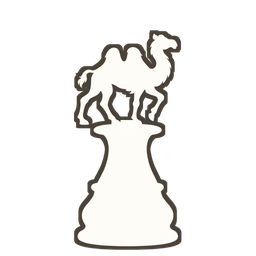
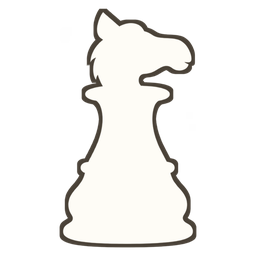
Timur's chess: hand-drawn pawns (war engine, elephant, giraffe, vizier, picket, camel), crowned king's pawn, plain pawn of pawns
Claude-Session: https://claude.ai/code/session_015r593RCYMwXPxiHzKrqQYy

Changed region(s): [[0.2188, 0.0312, 0.7812, 1.0]]

diff --git a/timur.html b/timur.html
@@ -151,7 +151,7 @@
     <h4>Setting up</h4>
     <p>White, from the bottom: rank 1 — elephant, ·, camel, ·, war engine, ·, war engine, ·, camel, ·, elephant (the gaps stay empty). Rank 2 — rook, knight, picket, giraffe, general, king, vizier, giraffe, picket, knight, rook. Rank 3 — the eleven pawns: of pawns, of war engines, of camels, of elephants, of generals, of kings, of viziers, of giraffes, of pickets, of knights, of rooks. Black's army is the same turned through a half-turn, so the kings face each other on the f-file. White moves first.</p>
     <h4>Moving</h4>
-    <p>Tap "the pieces" for diagrams. Each pawn wears a miniature of the piece it will become; the plain pawn is the pawn of kings, and the one wearing a tiny pawn is the pawn of pawns. The prince is a smaller crown; the adventitious king is a pawn wearing the crown. In short: the <b>king</b> steps one square any way; the <b>general</b> one square diagonally; the <b>vizier</b> one square straight. The <b>rook</b> and <b>knight</b> are the modern ones. The <b>picket</b> is a bishop that must move at least two squares. The <b>giraffe</b> steps one square diagonally, then at least three squares straight on, with nothing in the way. The <b>elephant</b> jumps exactly two squares diagonally, the <b>war engine</b> exactly two straight, and the <b>camel</b> jumps one-and-three like a stretched knight — none of the three can be blocked. <b>Pawns</b> move one square forward and capture one square diagonally forward; there is no double step, no en passant, no castling.</p>
+    <p>Tap "the pieces" for diagrams. Each pawn wears a sign of the piece it will become; the plain pawn is the pawn of pawns. The prince is a smaller crown; the adventitious king is a pawn wearing the crown. In short: the <b>king</b> steps one square any way; the <b>general</b> one square diagonally; the <b>vizier</b> one square straight. The <b>rook</b> and <b>knight</b> are the modern ones. The <b>picket</b> is a bishop that must move at least two squares. The <b>giraffe</b> steps one square diagonally, then at least three squares straight on, with nothing in the way. The <b>elephant</b> jumps exactly two squares diagonally, the <b>war engine</b> exactly two straight, and the <b>camel</b> jumps one-and-three like a stretched knight — none of the three can be blocked. <b>Pawns</b> move one square forward and capture one square diagonally forward; there is no double step, no en passant, no castling.</p>
     <h4>Promotion</h4>
     <p>A pawn that reaches the far rank becomes the piece it is named for — the pawn of rooks a rook, the pawn of camels a camel. Two are special. The <b>pawn of kings</b> becomes a <b>prince</b>, which moves like a king and counts as a second king: while you have more than one royal piece you may be captured like anything else and you may even walk into check — only your last royal piece has to be mated.</p>
     <p>The <b>pawn of pawns</b> is the strange one. The first time it reaches the far rank it parks there, uncapturable, until a chance comes: whenever a square exists from which it would fork two enemy pieces, or attack a piece that cannot move, you may (on your turn) drop it on that square — even if the square is occupied, by anyone but a king; whatever stood there is removed — and it carries on as a pawn from there. The second time it promotes, it is lifted straight back to f3 (f8 for Black), the pawn of kings' starting square. The third time, it becomes an <b>adventitious king</b>, another royal piece, and the only one that may sit in its own citadel, where it cannot be taken.</p>
@@ -167,7 +167,7 @@
 
 <script type="module">
 const $ = id => document.getElementById(id);
-const BUILD = "2026-11-03b";
+const BUILD = "2026-11-03c";
 
 // ===================== engine =====================
 // Squares 0..109 are the 11×10 camp (index = rank*11 + file, a1 = 0). 110 = White's citadel (right of k2), 111 = Black's (left of a9).
@@ -581,7 +581,7 @@ const GUIDE = [
   ["E", "The alfil: a jump of exactly two squares diagonally, over whatever is in between. Each elephant can only ever reach a sixteenth of the board."],
   ["C", "A jump of one square across and three along, like a stretched knight, over anything in between. Camels always land on the same colour they left, if the board were checkered."],
   ["D", "A jump of exactly two squares straight, over whatever is in between. The straight twin of the elephant."],
-  ["p", "One square forward; captures one square diagonally forward. No double step, no en passant. On the far rank it becomes the piece it is named for — so each pawn carries a small figure of what it will grow into. The pawn of kings is the plain pawn and becomes a prince; the pawn of pawns, the one with a tiny pawn on its head, has the three-stage story in the rules."],
+  ["p", "One square forward; captures one square diagonally forward. No double step, no en passant. On the far rank it becomes the piece it is named for — so each pawn wears a sign of what it will grow into. The crowned pawn is the pawn of kings and becomes a prince; the plain pawn is the pawn of pawns, which has the three-stage story in the rules."],
   ["P", "The prince (shahzada), a promoted pawn of kings: moves like a king and is a second royal piece. While you hold more than one royal piece, any of them can be captured — only the last must be mated."],
   ["A", "The adventitious king: the pawn of pawns after its third promotion. Moves like a king, counts as a royal piece, and is the only piece allowed into its own citadel, where it can't be touched."],
 ];
